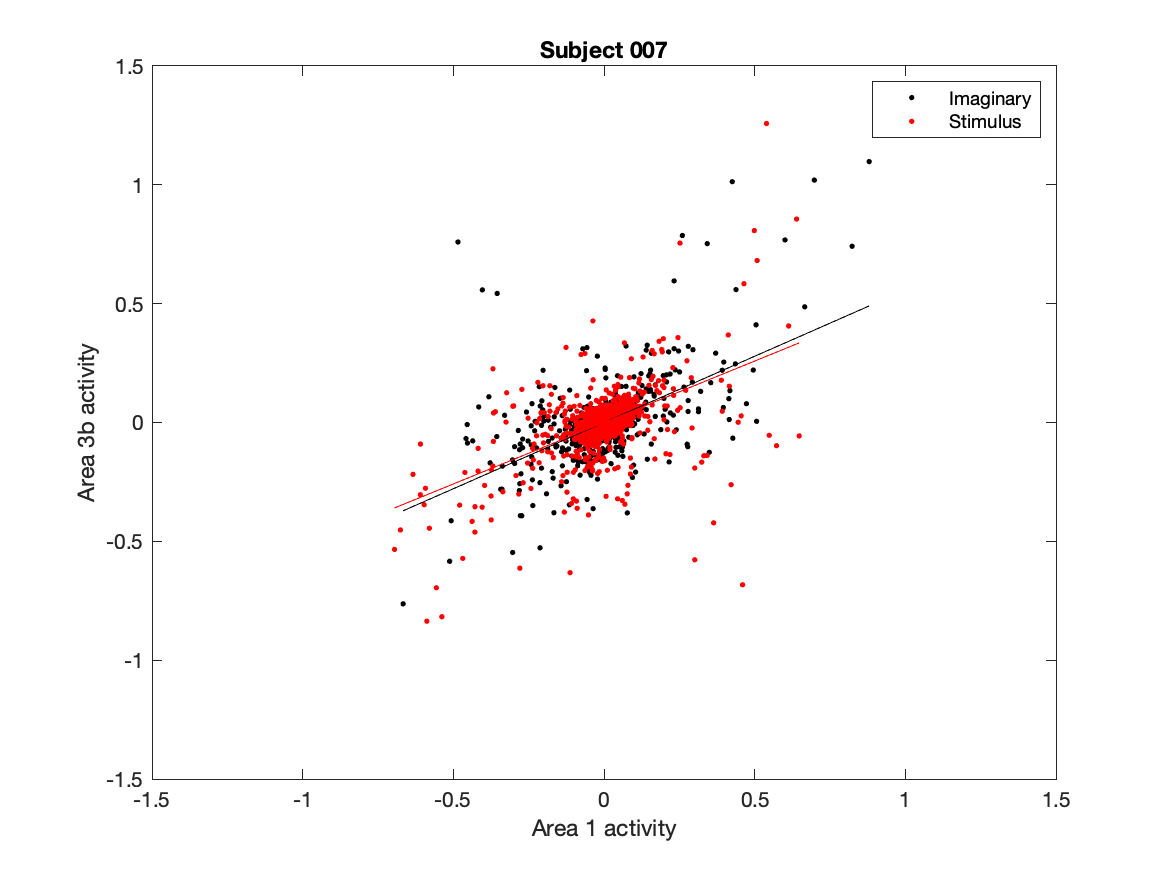
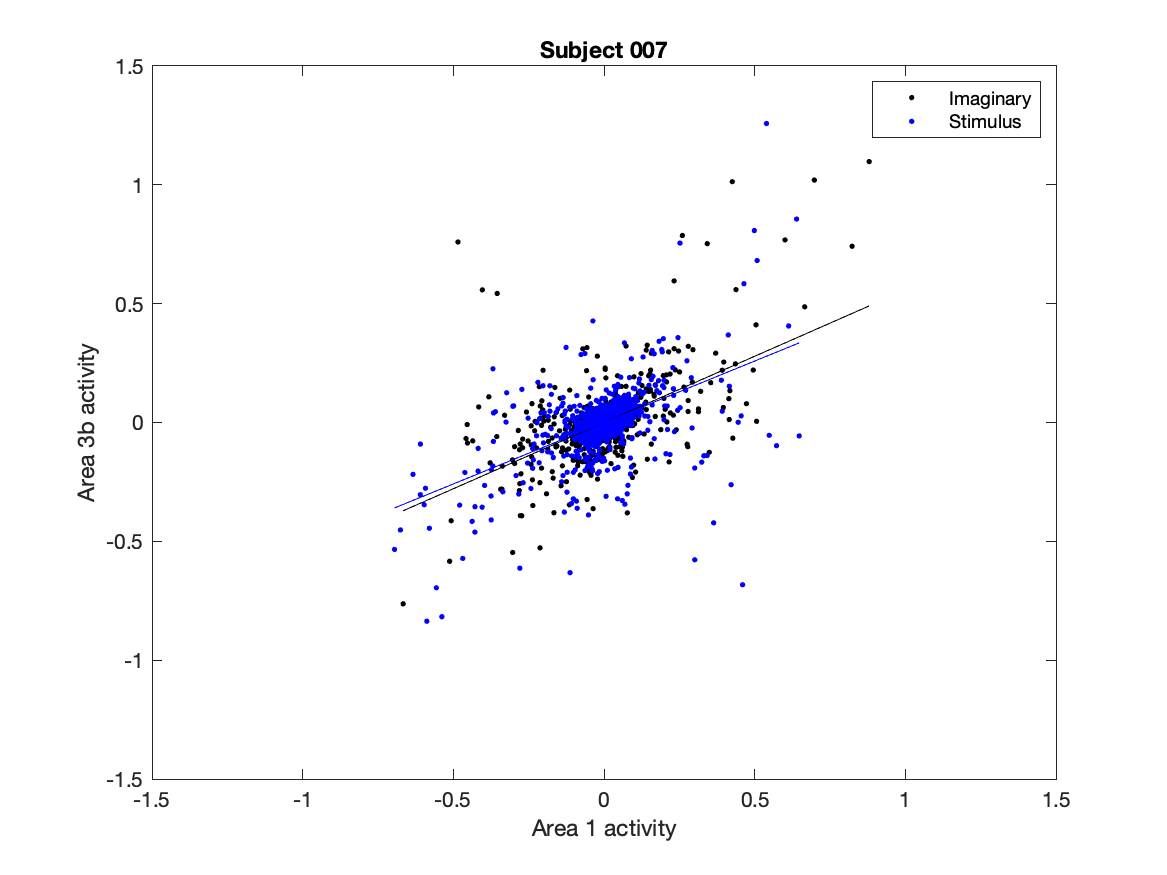
Updated Figures

Changed region(s): [[0.401, 0.3703, 0.5861, 0.5863], [0.3393, 0.5554, 0.3702, 0.5863]]

diff --git a/PPI/Support Scripts/Plot_PPI.m b/PPI/Support Scripts/Plot_PPI.m
@@ -41,7 +41,7 @@ for p = 1:length(participant_numbers)
         figure;
         plot(data.(img1).PPI.ppi, data.(img2).PPI.ppi, 'k.');
         hold on
-        plot(data.(stim1).PPI.ppi, data.(stim2).PPI.ppi,'r.');
+        plot(data.(stim1).PPI.ppi, data.(stim2).PPI.ppi,'b.');
         
         % x and y axis has always the range of -1.5 to 1.5
         xlim([-1.5, 1.5]);
@@ -61,7 +61,7 @@ for p = 1:length(participant_numbers)
         y = data.(stim2).PPI.ppi(:);
         B = x\y;
         y1 = B(1)*x(:,1)+B(2);
-        plot(x(:,1), y1, 'r-');
+        plot(x(:,1), y1, 'b-');
 
         % Create legend and labels
         legend('Imaginary', 'Stimulus');
